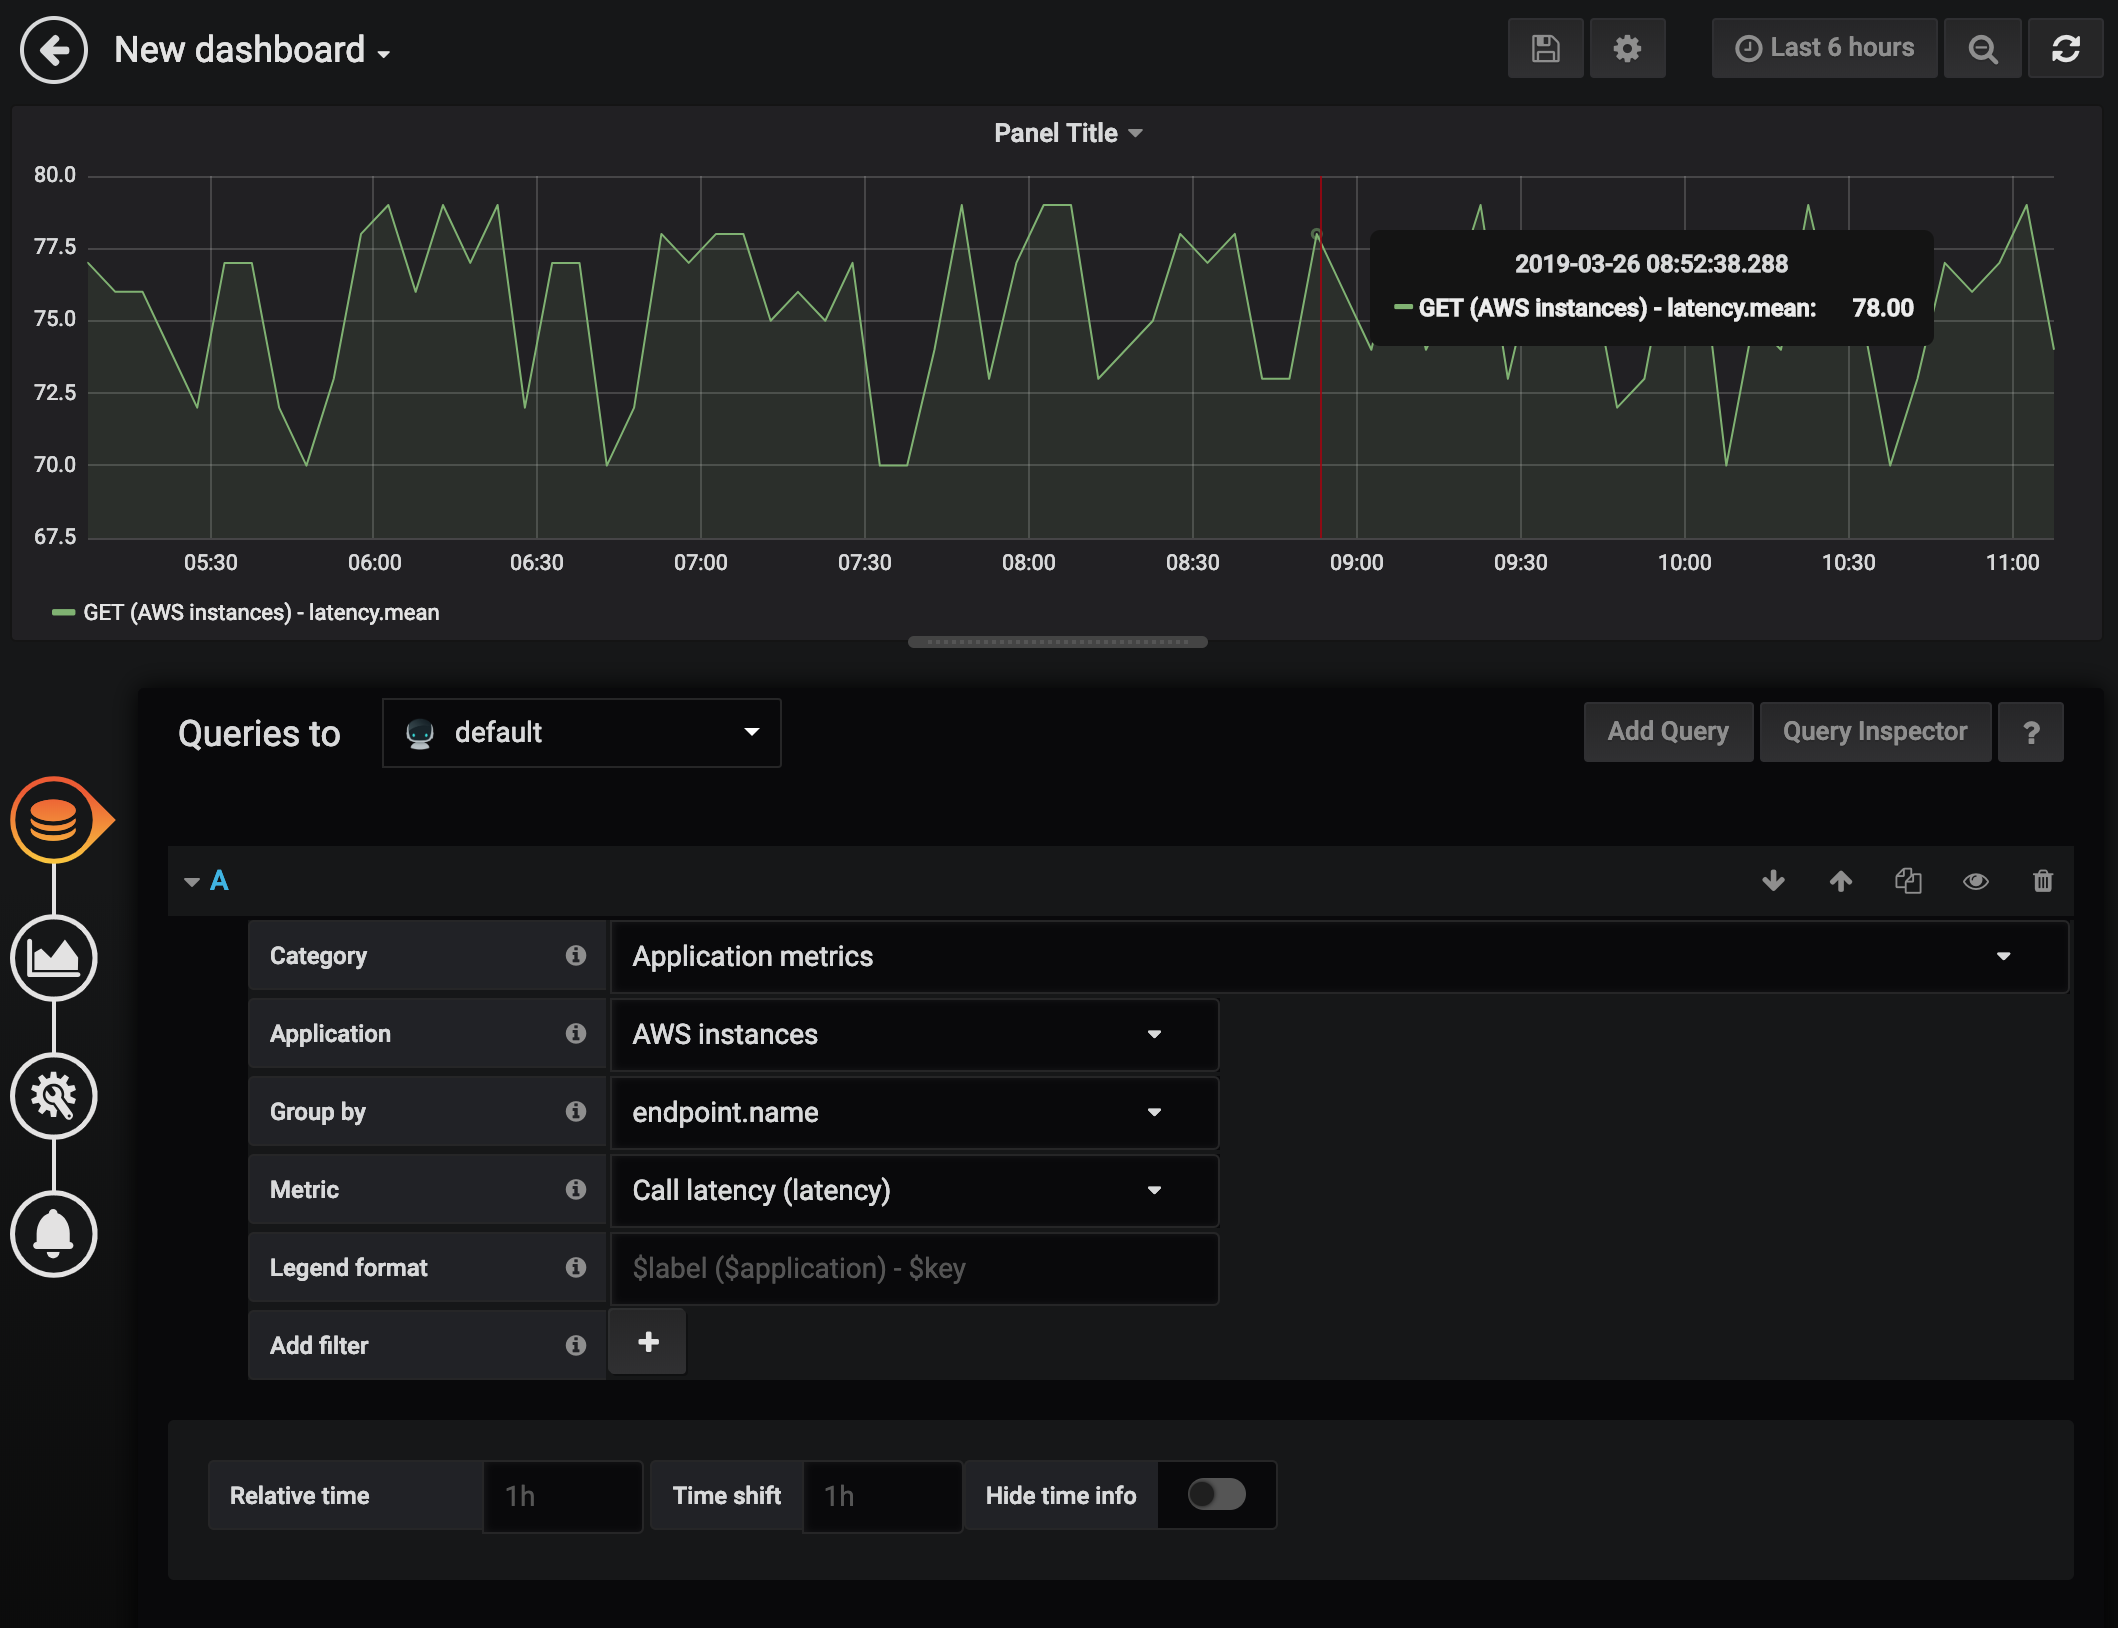
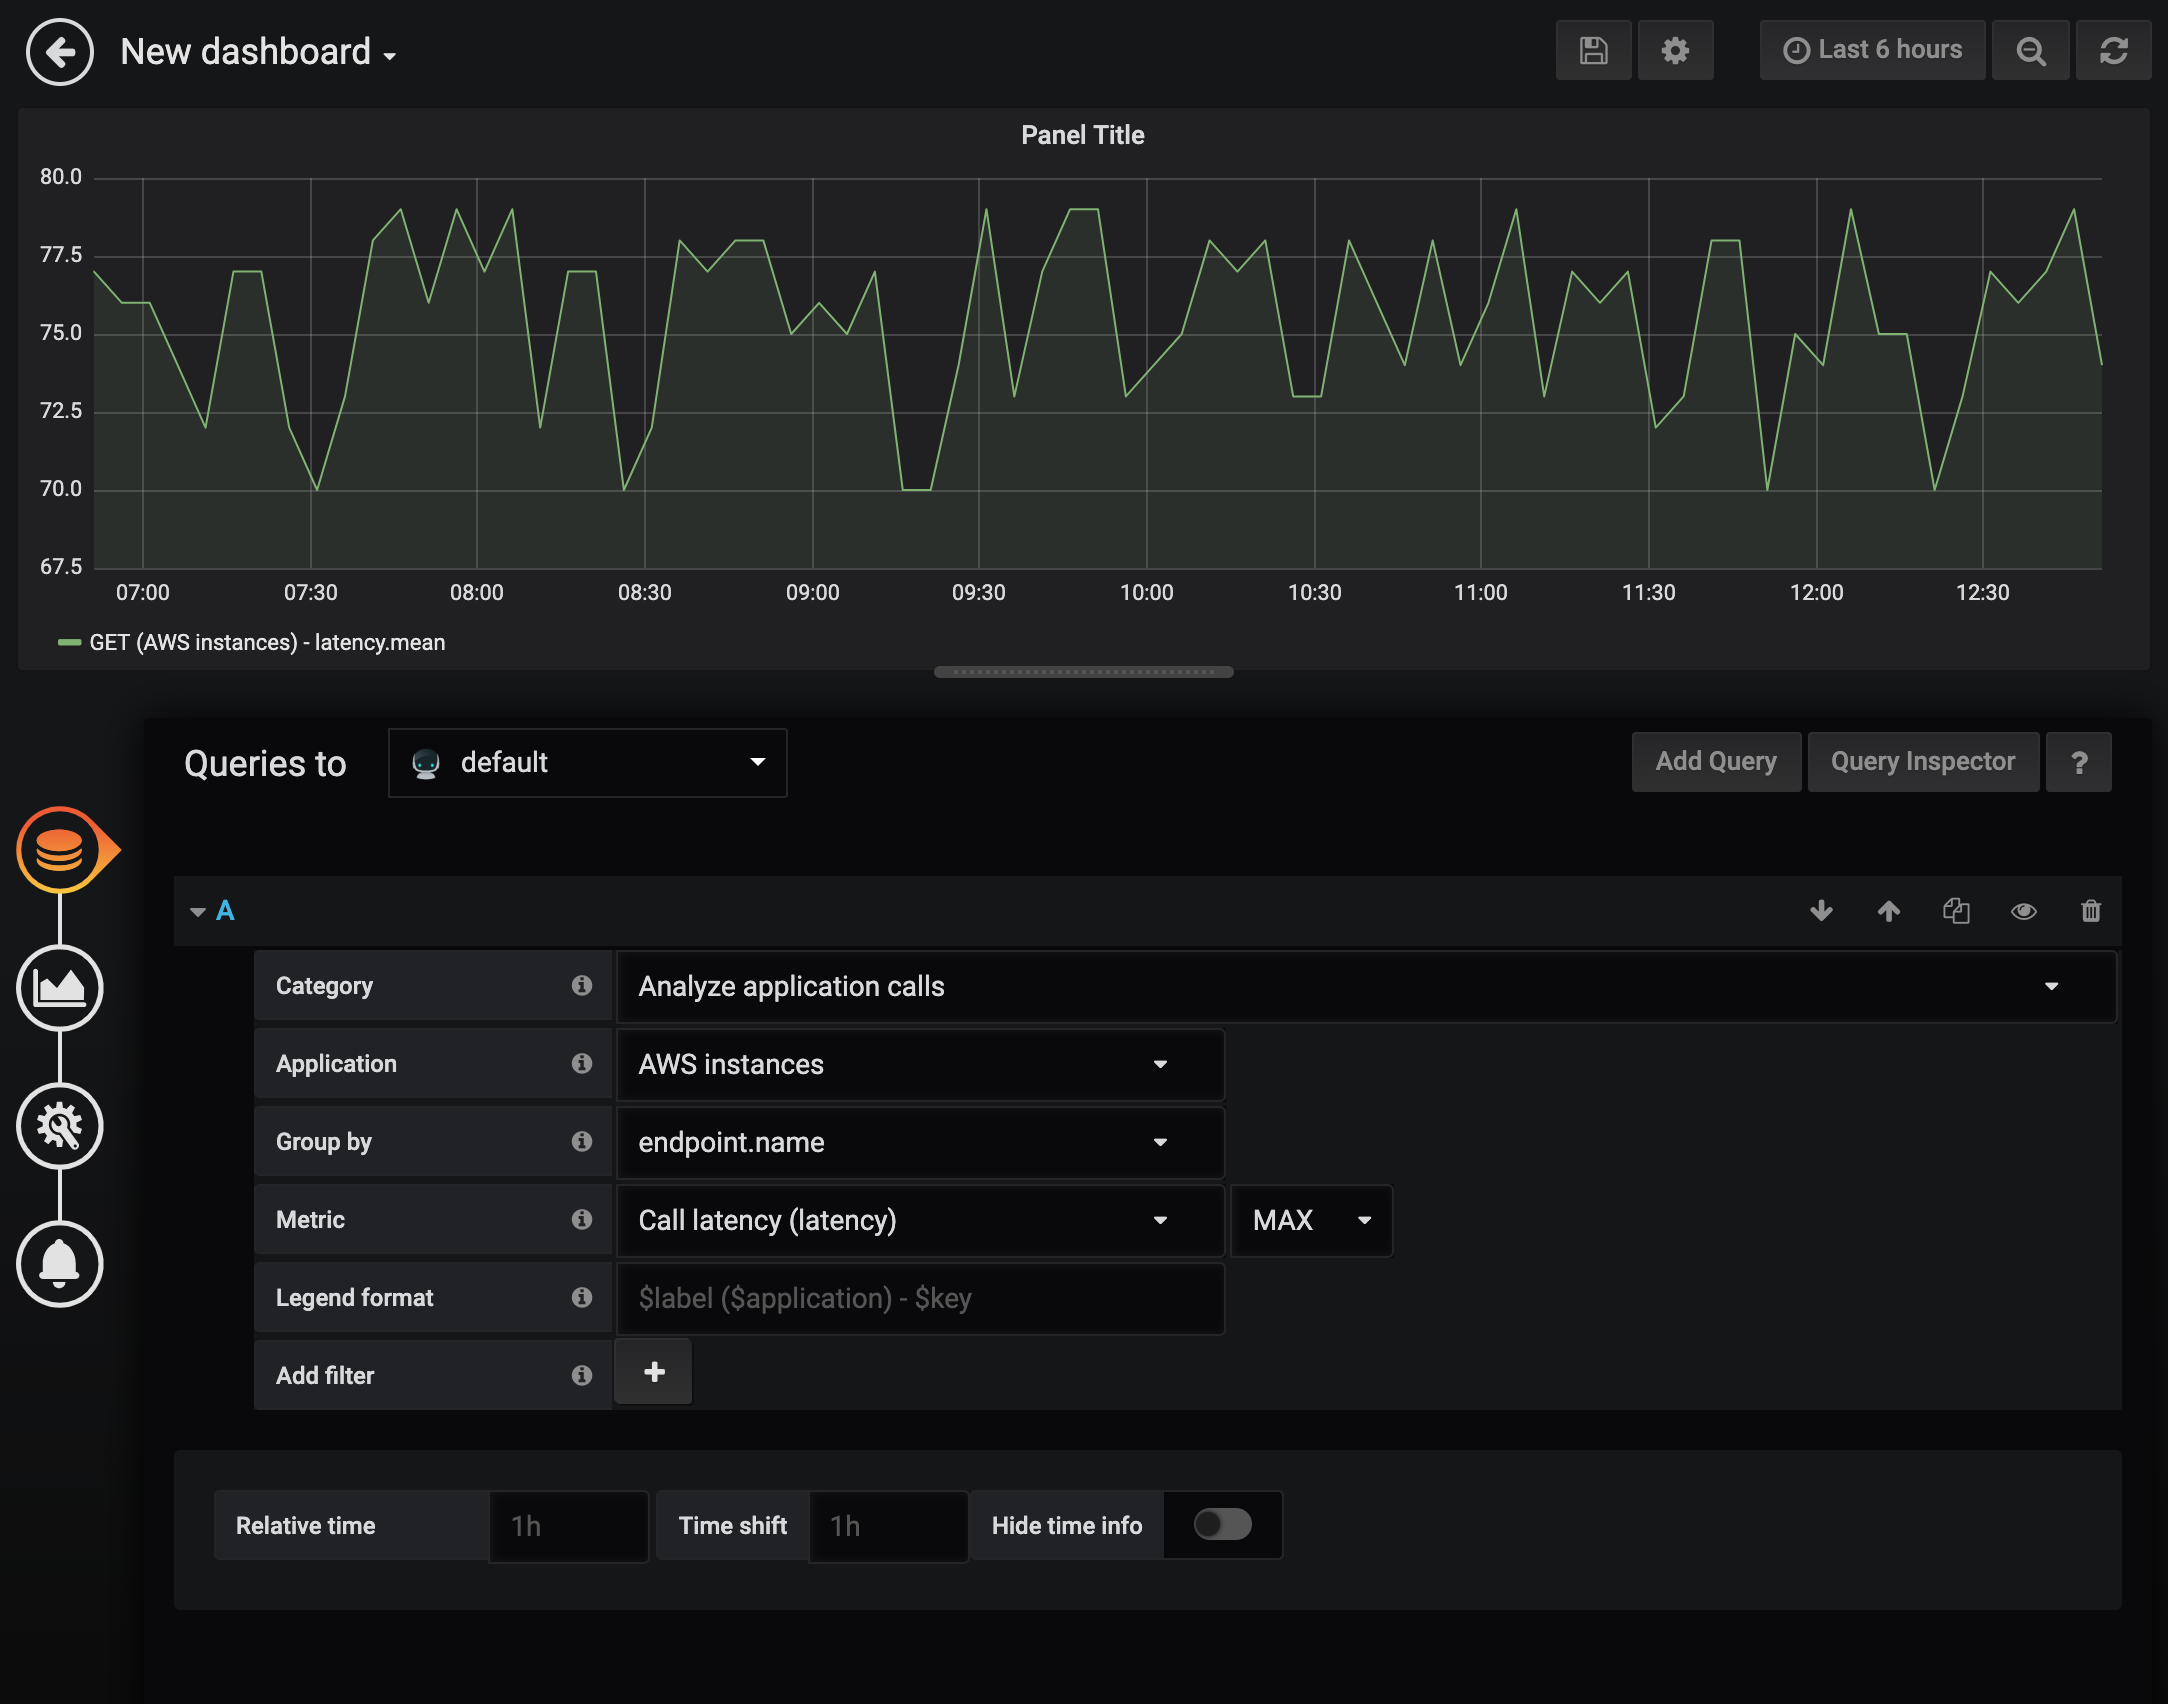
adjust documentation

diff --git a/README.md b/README.md
@@ -9,8 +9,9 @@ Attention: For On-premise customers Instana Release 146 is required.
 ## Features
 
 - Dynamic Focus queries
+- Applications and Websites
 - Automatic completion for available types and metrics
-- Utilises Instana REST API
+- Utilizes Instana REST API
 - Security via access token
 
 ## Configuration
@@ -18,6 +19,10 @@ Attention: For On-premise customers Instana Release 146 is required.
 This datasource uses the Instana REST API to query the metric values. First of all you will need to generate an API [token](https://docs.instana.io/quick_start/api/). Use this token along with the URL for your Instana account e.g. *https://prod-acme.instana.io*
 
 ![datasource configuration](https://raw.githubusercontent.com/instana/instana-grafana-datasource/master/screenshots/datasource-sml.png)
+
+To use the Grafana server as a proxy for querying Instana REST API please check `Use proxy`.
+
+To enable metrics for offline snapshots please check `Enable offline snapshots`. For On-premise customers Instana Release 156 is required.
 
 ## Usage
 
@@ -47,7 +52,7 @@ If your Dynamic Focus query matches, the returned dataset will include metrics p
 
 ![custom plot graph](https://raw.githubusercontent.com/instana/instana-grafana-datasource/master/screenshots/custom-metrics-sml.png)
 
-#### Change legend format
+##### Change legend format
 
 To adjust the legend display you can provide an own "Legend format". Supported values for replacement are:
 
@@ -62,6 +67,17 @@ To adjust the legend display you can provide an own "Legend format". Supported v
 
 If no custom format is provided the default '_$label (on host $host)_' will be shown.
 
+##### Singlestat visualization
+
+While using the "Singlestat" visualization an additional metric aggregation is selectable.
+
+![singlestat](https://raw.githubusercontent.com/instana/instana-grafana-datasource/master/screenshots/singlestat-visualization-sml.png)
+
+##### Table visualization
+
+While using the "Table" visualization an additional metric aggregation is selectable.
+
+![table](https://raw.githubusercontent.com/instana/instana-grafana-datasource/master/screenshots/table-visualization-sml.png)
 
 #### Analyze application calls
 
@@ -79,7 +95,7 @@ If your selection matches, the returned dataset will include metrics providing g
 
 If more then 20 metics are fetched, a warning appears that not all results are shown. Add Filter to narrow down the data.
 
-#### Change legend format
+##### Change legend format
 
 To adjust the legend display you can provide an own "Legend format". Supported values for replacement are:
 
@@ -107,7 +123,7 @@ If your selection matches, the returned dataset will include metrics providing g
 
 A default label '_$label ($website) $metric_' will be shown.
 
-#### Change legend format
+##### Change legend format
 
 To adjust the legend display you can provide an own "Legend format". Supported values for replacement are:
 

diff --git a/dist/README.md b/dist/README.md
@@ -9,8 +9,9 @@ Attention: For On-premise customers Instana Release 146 is required.
 ## Features
 
 - Dynamic Focus queries
+- Applications and Websites
 - Automatic completion for available types and metrics
-- Utilises Instana REST API
+- Utilizes Instana REST API
 - Security via access token
 
 ## Configuration
@@ -18,6 +19,10 @@ Attention: For On-premise customers Instana Release 146 is required.
 This datasource uses the Instana REST API to query the metric values. First of all you will need to generate an API [token](https://docs.instana.io/quick_start/api/). Use this token along with the URL for your Instana account e.g. *https://prod-acme.instana.io*
 
 ![datasource configuration](https://raw.githubusercontent.com/instana/instana-grafana-datasource/master/screenshots/datasource-sml.png)
+
+To use the Grafana server as a proxy for querying Instana REST API please check `Use proxy`.
+
+To enable metrics for offline snapshots please check `Enable offline snapshots`. For On-premise customers Instana Release 156 is required.
 
 ## Usage
 
@@ -47,7 +52,7 @@ If your Dynamic Focus query matches, the returned dataset will include metrics p
 
 ![custom plot graph](https://raw.githubusercontent.com/instana/instana-grafana-datasource/master/screenshots/custom-metrics-sml.png)
 
-#### Change legend format
+##### Change legend format
 
 To adjust the legend display you can provide an own "Legend format". Supported values for replacement are:
 
@@ -62,6 +67,17 @@ To adjust the legend display you can provide an own "Legend format". Supported v
 
 If no custom format is provided the default '_$label (on host $host)_' will be shown.
 
+##### Singlestat visualization
+
+While using the "Singlestat" visualization an additional metric aggregation is selectable.
+
+![singlestat](https://raw.githubusercontent.com/instana/instana-grafana-datasource/master/screenshots/singlestat-visualization-sml.png)
+
+##### Table visualization
+
+While using the "Table" visualization an additional metric aggregation is selectable.
+
+![table](https://raw.githubusercontent.com/instana/instana-grafana-datasource/master/screenshots/table-visualization-sml.png)
 
 #### Analyze application calls
 
@@ -79,7 +95,7 @@ If your selection matches, the returned dataset will include metrics providing g
 
 If more then 20 metics are fetched, a warning appears that not all results are shown. Add Filter to narrow down the data.
 
-#### Change legend format
+##### Change legend format
 
 To adjust the legend display you can provide an own "Legend format". Supported values for replacement are:
 
@@ -107,7 +123,7 @@ If your selection matches, the returned dataset will include metrics providing g
 
 A default label '_$label ($website) $metric_' will be shown.
 
-#### Change legend format
+##### Change legend format
 
 To adjust the legend display you can provide an own "Legend format". Supported values for replacement are:
 
